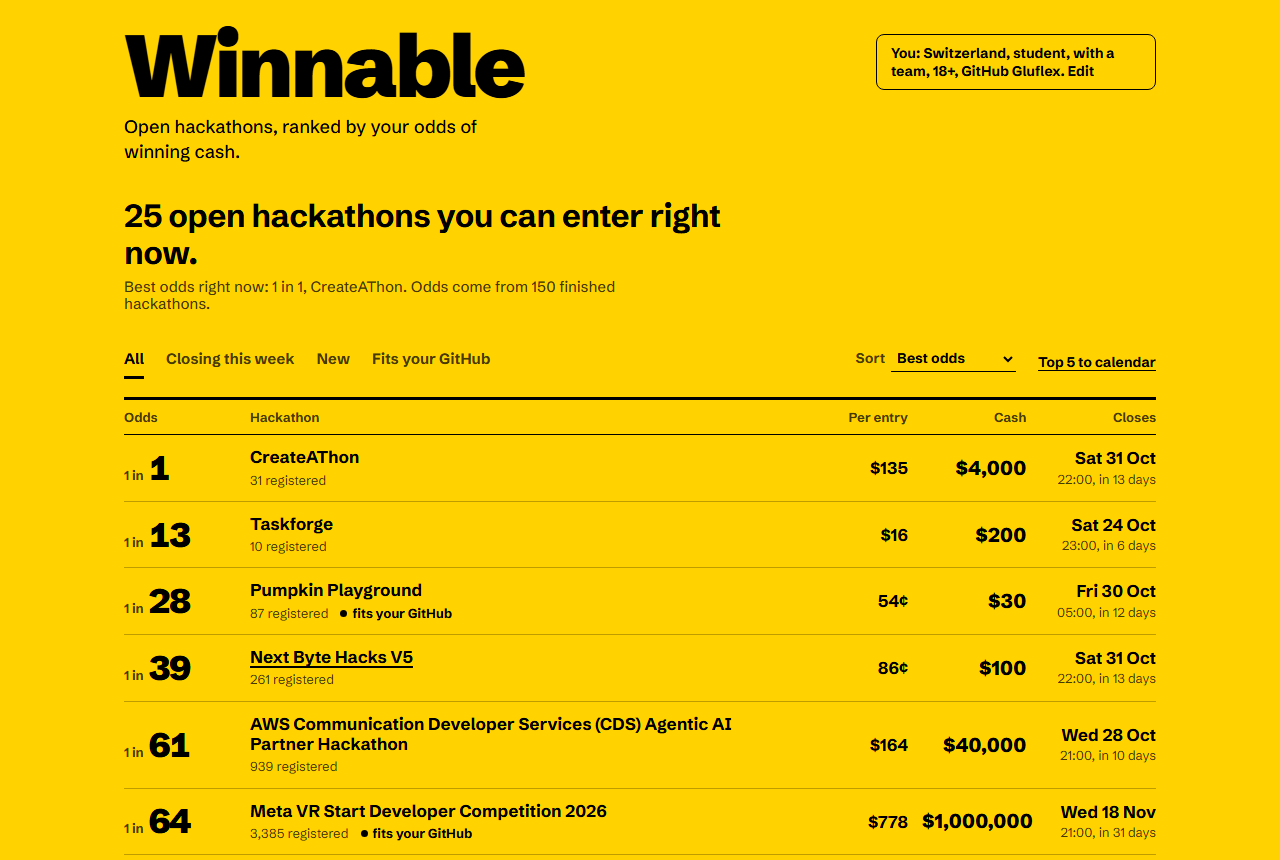
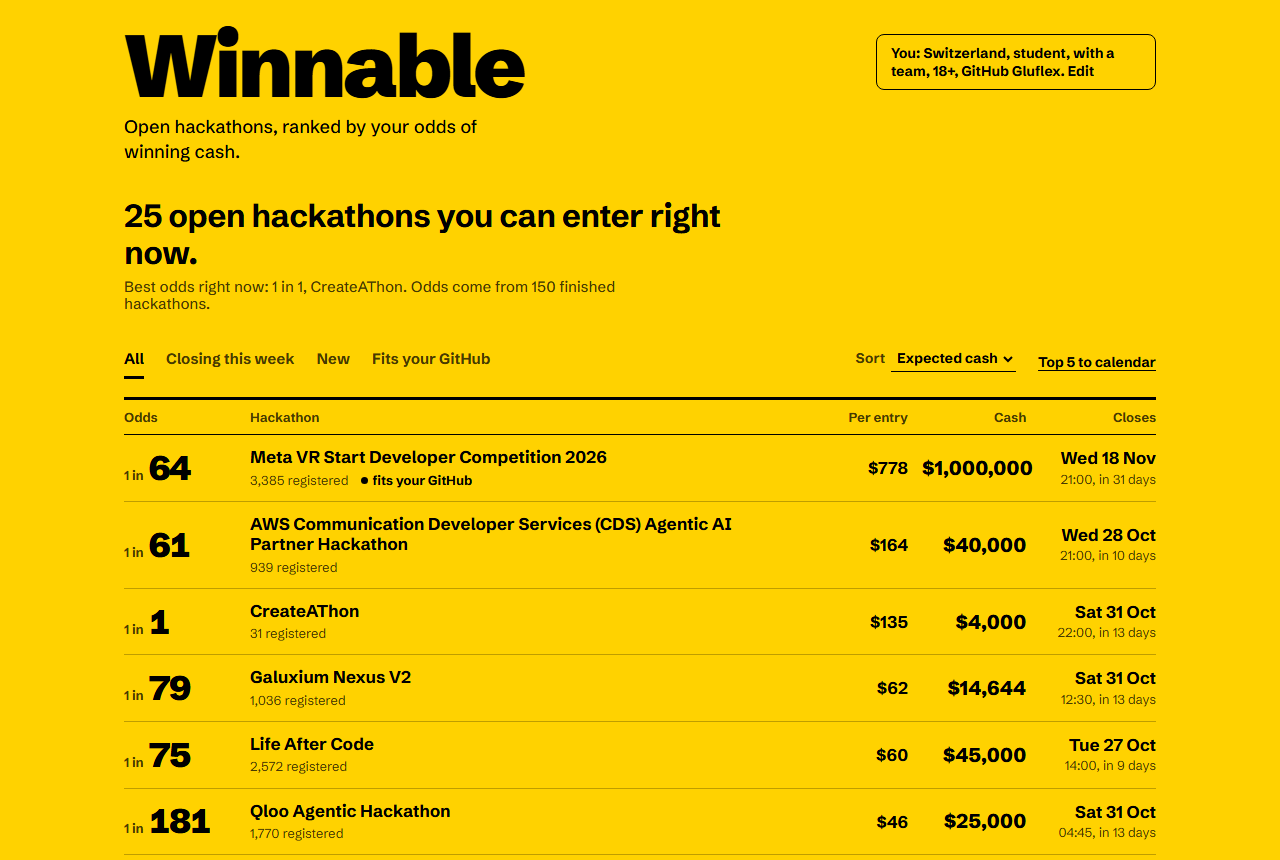
Open count matches Devpost; best odds independent of sort; README on the Meta comparison

diff --git a/site/js/app.js b/site/js/app.js
@@ -1,6 +1,6 @@
 // Winnable board: loads the daily data file, ranks it for the builder's profile,
 // and renders the timetable, the detail receipt and the about-you panel.
-import { rankAll, cashPrizes, daysLeft, odds as oddsOf, ineligibility, studentLevel, isParticipation, place } from './rank.js';
+import { rankAll, cashPrizes, daysLeft, odds as oddsOf, ineligibility, studentLevel, isParticipation, place, openCount, bestOdds } from './rank.js';
 import { fetchRepos, themeIndex, matchFor } from './github.js';
 import { buildIcs, download } from './ics.js';
 import { COUNTRIES } from './countries.js';
@@ -113,8 +113,8 @@ function render(animate) {
 function summary() {
   const n = ranked.eligible.length;
   const cash = ranked.eligible.reduce((s, r) => s + r.totalCash, 0);
-  const best = ranked.eligible.find((r) => r.oneIn);
-  const openNow = n + ranked.blocked.filter((r) => !r.upcoming).length;
+  const best = bestOdds(ranked);
+  const openNow = openCount(ranked);
   const lead = hasProfile()
     ? `${n} open hackathons you can enter right now.`
     : `${openNow} hackathons are open on Devpost right now. Tell Winnable about you to see which you can enter.`;

diff --git a/site/js/rank.js b/site/js/rank.js
@@ -124,6 +124,19 @@ export function isUpcoming(h, now = new Date()) {
   return end > start && (now - start) / (end - start) < EARLY_SHARE;
 }
 
+// How many hackathons Devpost lists as open right now: started and not closed, whether
+// ranked, just opened (no odds yet) or blocked for this profile
+export function openCount(ranked, now = new Date()) {
+  const started = (r) => r.h.open_state !== 'upcoming' && !(r.h.starts && new Date(r.h.starts) > now) && !(r.days != null && r.days < 0);
+  return [...ranked.eligible, ...ranked.upcoming, ...ranked.blocked].filter(started).length;
+}
+
+// The best odds on offer, whatever sort the board shows (hackathons closing within a day excluded)
+export function bestOdds(ranked) {
+  return ranked.eligible.filter((r) => r.oneIn && !(r.days != null && r.days < 1))
+    .reduce((best, r) => (!best || r.oneIn < best.oneIn ? r : best), undefined);
+}
+
 // Sort orders the board offers. Best odds first; ties go to the bigger expected cash.
 export const SORTS = {
   odds: (a, b) => (a.oneIn ?? 1e12) - (b.oneIn ?? 1e12) || b.ev - a.ev,

diff --git a/tests/readme_shots.py b/tests/readme_shots.py
@@ -1,0 +1,45 @@
+"""Screenshots for the README, with the page clock pinned so they match the video and submission.
+
+    <python with playwright> tests/readme_shots.py [base-url] [iso-time]
+"""
+import json, sys
+from pathlib import Path
+from playwright.sync_api import sync_playwright
+
+BASE = sys.argv[1] if len(sys.argv) > 1 else "http://127.0.0.1:8090/site/"
+NOW = sys.argv[2] if len(sys.argv) > 2 else None
+OUT = Path(__file__).resolve().parent.parent / "docs" / "img"
+PROFILE = {"country": "Switzerland", "adult": True, "student": "university", "team": True, "onlineOnly": True, "github": "Gluflex"}
+errors = []
+
+
+def page_for(browser, **ctx):
+    c = browser.new_context(**ctx)
+    if NOW:
+        c.clock.set_fixed_time(NOW)
+    c.add_init_script(f"localStorage.setItem('winnable:profile', {json.dumps(json.dumps(PROFILE))})")
+    p = c.new_page()
+    p.on("pageerror", lambda e: errors.append(str(e)))
+    p.goto(BASE)
+    p.wait_for_selector("#rows .row", timeout=20000)
+    p.wait_for_timeout(1500)  # GitHub match markers
+    return p
+
+
+with sync_playwright() as pw:
+    b = pw.chromium.launch()
+    for scheme, name in (("light", "board.png"), ("dark", "board-dark.png")):
+        p = page_for(b, viewport={"width": 1280, "height": 860}, color_scheme=scheme)
+        p.select_option("#sortSel", "ev"); p.wait_for_timeout(900)
+        p.screenshot(path=str(OUT / name))
+        if scheme == "light":
+            p.click("#rows .row:has-text('Meta VR Start')"); p.wait_for_timeout(900)
+            p.screenshot(path=str(OUT / "detail.png"))
+            p.keyboard.press("Escape"); p.wait_for_timeout(300)
+            p.click("#howBtn"); p.wait_for_timeout(900)
+            p.screenshot(path=str(OUT / "how-the-odds-work.png"))
+    p = page_for(b, viewport={"width": 390, "height": 844}, device_scale_factor=2, is_mobile=True, has_touch=True)
+    p.select_option("#sortSel", "ev"); p.wait_for_timeout(900)
+    p.screenshot(path=str(OUT / "phone.png"))
+    b.close()
+print("errors:", errors or "none")

diff --git a/README.md b/README.md
@@ -4,13 +4,13 @@
 
 **Try it:** [winnable.lcatarci.workers.dev](https://winnable.lcatarci.workers.dev)
 
-Devpost lists every hackathon by prize or deadline. The biggest prize is rarely the best bet: on 18 October 2026 Amazon's hackathon, USD 128,000 in cash and 56,786 registrants, worked out at 1 in 857 for an average entry. An AWS hackathon open to the same people, USD 40,000 and 939 registrants, was 1 in 61. Winnable reads every open Devpost hackathon each day, works out how many people will really submit, counts only cash, checks whether you may enter at all, and ranks what is left by your odds.
+Devpost lists every hackathon by prize or deadline, but the prize says nothing about your chances. On 18 October 2026 Amazon's hackathon paid USD 128,000 in cash to a field of 56,798 registrants: 1 in 857 for an average entry. Meta's VR competition, open to the same people, paid USD 1,000,000 in cash across 20 prizes to 3,385 registrants: 1 in 64. Eight times the prize, thirteen times the odds; the field decides. Winnable reads every open Devpost hackathon each day, works out how many people will really submit, counts only cash, checks whether you may enter at all, and ranks what is left by your odds.
 
 ![The Winnable board](docs/img/board.png)
 
 ## What it does
 
-- **Odds per hackathon.** "1 in 65" means one cash prize for every 65 expected submissions.
+- **Odds per hackathon.** "1 in 64" means one cash prize for every 64 expected submissions.
 - **Calibrated, not guessed.** Most registrants never submit. Winnable learns how many do from finished Devpost hackathons: registrants against the projects in their galleries. The first calibration used 150 finished hackathons; the median submission rate was 28 %, and the fitted curve is submissions = 0.41 × registrants^0.90. The chart is in the app under "How the odds work".
 - **Cash only.** Credits, gift cards, licences, scholarships, swag and participation awards are listed but never counted. Devpost's "in cash" label is checked against the prize's own words: "$5,000 in Deployxa credits + 12 months of Pro" or "$2,000 in Momen credits" count as nothing, with the reason shown. Amounts written only into the prize text are read with their multipliers ("$100 each to 20 people").
 - **Can you enter.** Country, age, student status (university or high school) and team are checked against each hackathon's eligibility list, with the reason shown when you cannot: "Not open in Brazil", "High school students only", "In person: Bengaluru", "Team of 2 or more required". Member-only events stay blocked with their own wording.

diff --git a/devpost/checklist.md b/devpost/checklist.md
@@ -90,6 +90,8 @@ Build mode: fast
 - [x] Final review complete — feedback resolved and learner confirms ready to ship (confirmation under Leandro's delegation of 14.10.2026; his own look happens when he reviews the submission package)
 - [x] Fix: organiser-typed trailing commas in locations ("In person: Block 45, Sharda University, ") — `place()` in rank.js, test added, committed
 - [x] Fix: the first-visit About panel no longer reopens over a panel the visitor already opened within 600 ms — guarded in `boot()`, checked in the browser
+- [x] Fix: "hackathons are open on Devpost right now" counted only rated and blocked rows (58), not the just-opened ones; `openCount()` now matches Devpost's own count (68), test added
+- [x] Fix: "Best odds right now" followed the chosen sort and named a 1 in 64 hackathon while a 1 in 1 existed; `bestOdds()` is sort-independent, test added
 
 ## Code Tour and App Map
 
@@ -97,7 +99,7 @@ Build mode: fast
 - [x] Optional edit and transfer reflection addressed — offered/declined/already covered/not applicable as appropriate
 - [x] `devpost/app-map.html` generated from finished code, checked, and shown, including a project-grounded practice to reuse
 
-Activity and evidence: brief evidence-based recap, not hands-on practice (the learner delegated the build and was not present). Evidence: spec.md "Decisions and Open Issues" (submission-rate uncertainty, 5 points, 0.24 to 0.53) resolved by the 150-point calibration; the day-one ranking revision pinned by the projectedRegistrants tests
+Activity and evidence: brief evidence-based recap, not a hands-on session (Leandro delegated the build to the agent on 14.10.2026, as each planning document records). Evidence: spec.md "Decisions and Open Issues" (submission-rate uncertainty, 5 points, 0.24 to 0.53) resolved by the 150-point calibration; the day-one ranking revision pinned by the projectedRegistrants tests
 Route and stops: reference route in the map, not toured together: app.js #pfDone handler, rank.js rankAll/odds/ineligibility, app.js render/rowHtml/openDetail
 Edit outcome: not applicable (no learner session)
 Reflection: not offered (no learner session); the transfer question is left for Leandro
